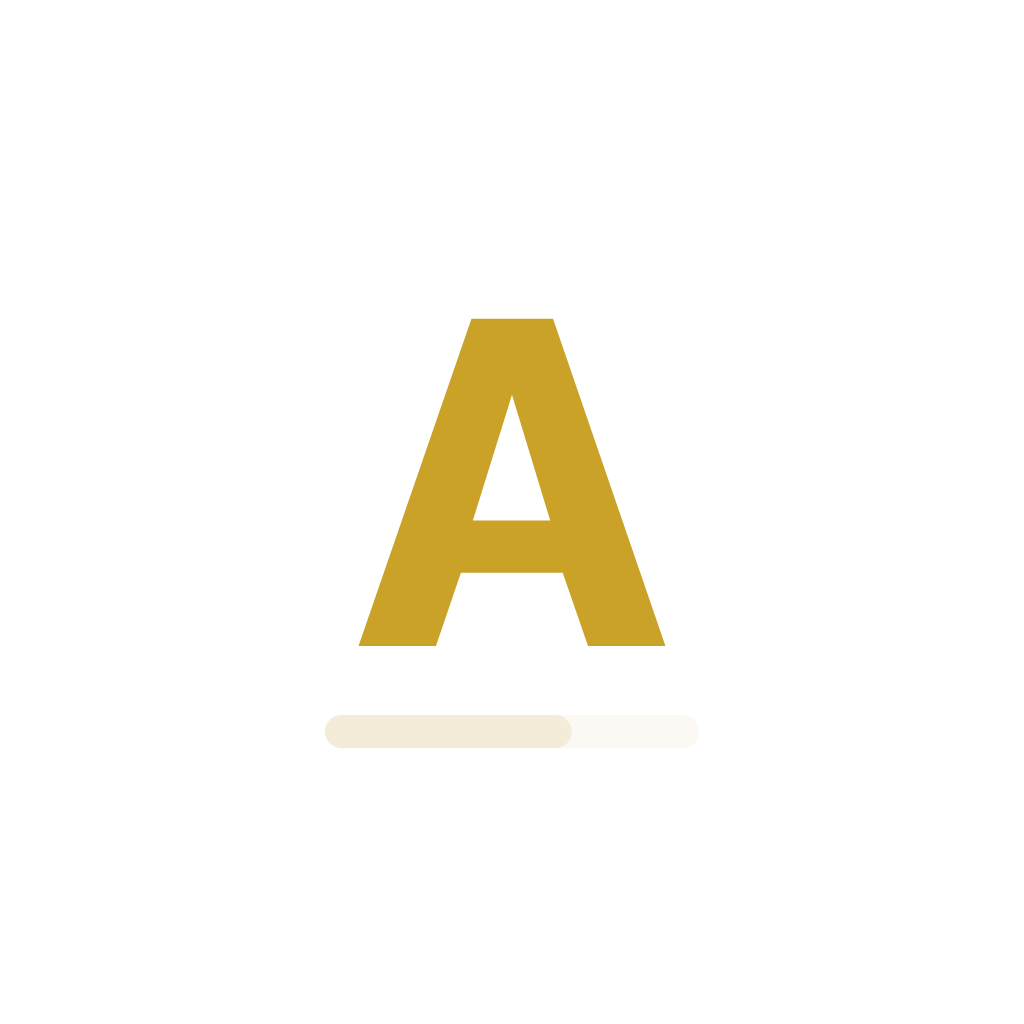
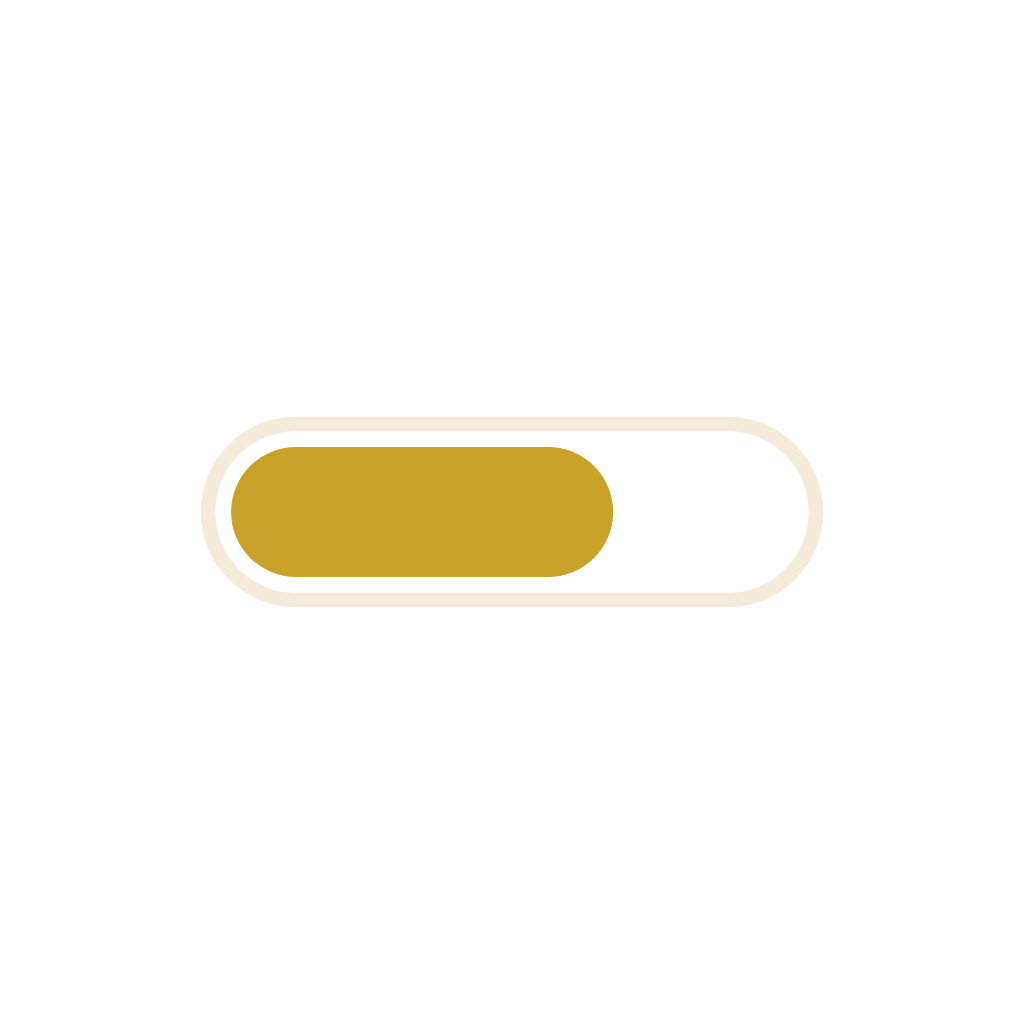
Nouvelle icône : barre de progression à la place du « A »
Remplace le logo (les 8 PNG : icône, adaptive Android, splash, favicon, PWA
192/512/maskable, apple-touch) par une barre de progression dans son cadre,
aux couleurs de la charte. Le cache du service worker passe en v2 pour que les
PWA déjà installées récupèrent les nouvelles icônes.

Claude-Session: https://claude.ai/code/session_01Umu8nfsphDbcRcck1wwHdo

Changed region(s): [[0.1875, 0.3125, 0.8125, 0.6562], [0.3125, 0.6875, 0.5625, 0.75]]

diff --git a/public/sw.js b/public/sw.js
@@ -1,6 +1,6 @@
 // Service worker minimal : l'application fonctionne hors ligne après la première visite.
 // Les fichiers de l'application (JS, icônes…) sont mis en cache à la volée ; la navigation retombe sur index.html.
-const CACHE = 'w-cache-v1';
+const CACHE = 'w-cache-v2'; // v2 : nouvelle icône (les icônes sont servies depuis le cache)
 
 // À l'installation : on met en cache la page ET les scripts qu'elle référence, pour que la première visite
 // suffise à fonctionner hors ligne (sans dépendre du cache HTTP du navigateur).

diff --git a/CLAUDE.md b/CLAUDE.md
@@ -92,7 +92,9 @@ Inspiration d'interface : « Study Tracker & Timer: Track It » (Android) mais *
       la logique est testée dans Chromium (fenêtre réduite pour simuler le clavier) mais pas avec un vrai clavier Android
 - [x] Rappels : notifications locales via `expo-notifications` (`src/notifications`), **code jamais exécuté sur un vrai
       téléphone** ; sur web/PWA les rappels sont enregistrés mais ne sonnent pas (l'UI le dit)
-- [x] Icône « A » (Raleway ExtraBold doré + barre de progression, sur `#26428B`), nom « Alam », splash
+- [x] Icône = **barre de progression** (cadre crème `#F4EBD9` + remplissage doré `#C9A227` à 68 %, sur `#26428B`) —
+      remplace l'ancien « A » (les variantes « 3 barres empilées » et « pilule seule » ont été écartées : elles font
+      penser à un menu hamburger / un interrupteur). Nom « Alam », splash
 - [x] PWA : `public/` (manifest, sw.js qui précache page + JS, icônes), testée hors ligne et sous sous-chemin GitHub Pages
 - [x] Workflows : `.github/workflows/pages.yml` (site, sur push `main`) et `android-apk.yml` (APK, à la main ou tag `v*`)
       — **jamais exécutés** (ne peuvent pas l'être depuis ici)
@@ -123,7 +125,11 @@ Inspiration d'interface : « Study Tracker & Timer: Track It » (Android) mais *
 ## Notes techniques
 - `npx expo install` échoue dans l'environnement cloud (proxy) : utiliser `npm install pkg@version` avec les
   versions de `node_modules/expo/bundledNativeModules.json`. Ne pas laisser npm prendre le `latest` de react-native.
-- Icônes : générées avec Playwright (rendu HTML de la police en base64) ; pas de Pillow dans l'environnement.
+- Icônes : générées avec Playwright (SVG rendu dans Chromium, capture PNG, `omitBackground` pour l'adaptive et le
+  splash) ; pas de Pillow dans l'environnement. 8 fichiers à régénérer ensemble : `assets/{icon,adaptive-icon,
+  splash-icon,favicon}.png` et `public/{icon-192,icon-512,icon-maskable-512,apple-touch-icon}.png`. Zones de
+  sécurité : adaptive Android = cercle de 66 % (motif réduit à 80 %), maskable PWA = cercle de 80 %.
+  Changer une icône PWA ⇒ incrémenter `CACHE` dans `public/sw.js` (les icônes sont servies depuis le cache).
 - Test web : `CI=1 npx expo export --platform web --output-dir dist`, servir `dist/` (ignoré par git), piloter avec
   Playwright (`/opt/node22/lib/node_modules/playwright`, `executablePath: '/opt/pw-browsers/chromium'`, `--no-sandbox`).
 - Ne pas utiliser `pkill -f` avec un motif présent dans la commande elle-même (tue le shell). Arrêter un serveur de test : `fuser -k PORT/tcp`.
